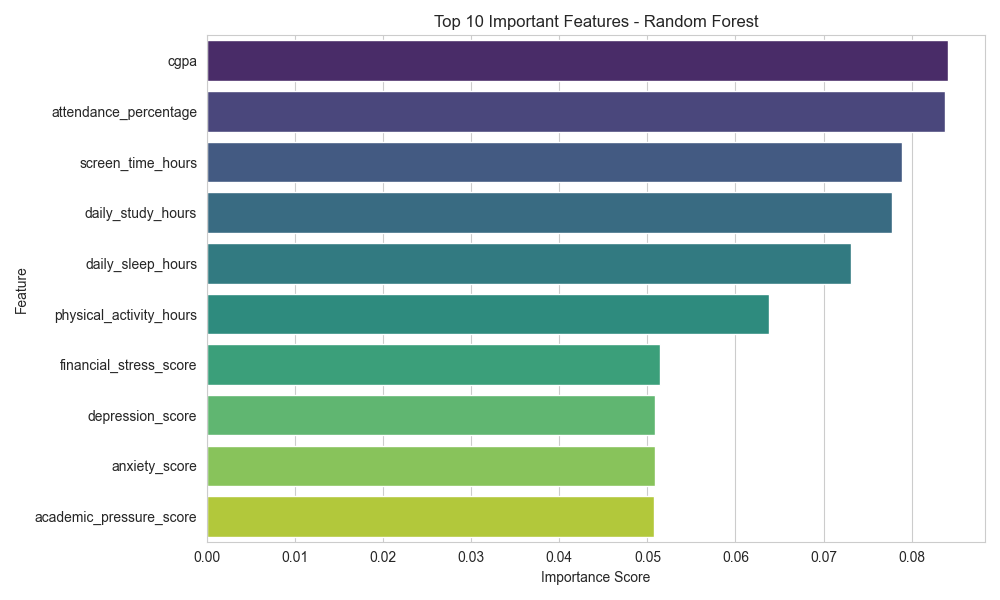
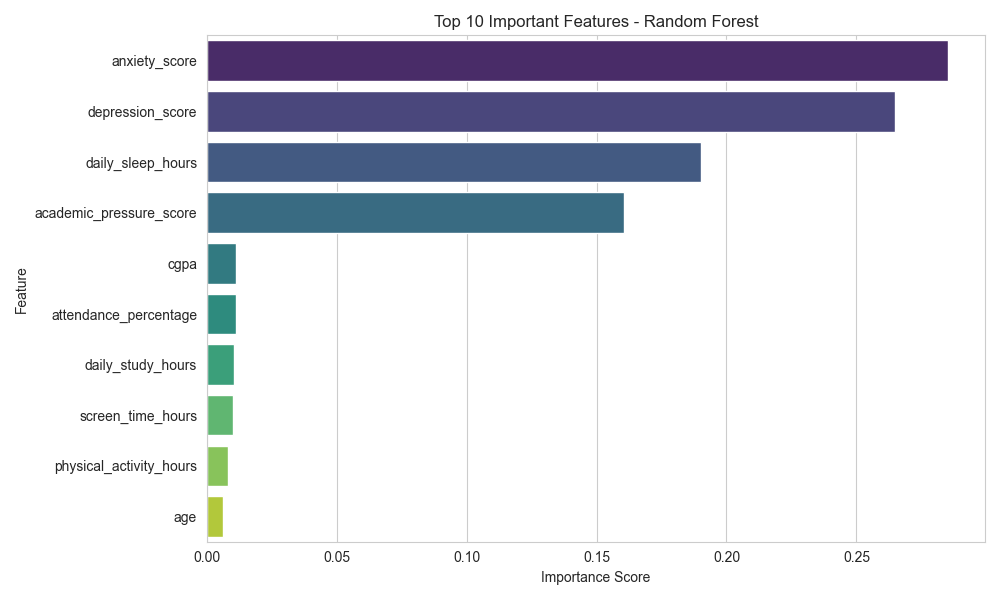
Changed datsets from 150k to 3k for better performance and logistic regression accuracy percentage

diff --git a/main.py b/main.py
@@ -1,4 +1,5 @@
 import os
+import argparse
 import pandas as pd
 import matplotlib.pyplot as plt
 import seaborn as sns
@@ -12,7 +13,27 @@ from sklearn.linear_model import LogisticRegression
 from sklearn.ensemble import RandomForestClassifier
 from sklearn.metrics import accuracy_score, classification_report, confusion_matrix
 
-df = pd.read_csv("student_burnout.csv")
+parser = argparse.ArgumentParser(description="Student burnout model training and visualization")
+parser.add_argument("--data", default="student_burnout.csv", help="Path to dataset CSV file")
+parser.add_argument("--target", default="burnout_level", help="Target column name")
+parser.add_argument("--id-column", default="student_id", help="ID column to drop if present")
+parser.add_argument(
+    "--class-order",
+    default="Low,Medium,High",
+    help="Comma-separated class order for confusion matrix, for example: Low,Medium,High"
+)
+args = parser.parse_args()
+
+df = pd.read_csv(args.data)
+
+if args.target not in df.columns:
+    raise ValueError(
+        f"Target column '{args.target}' not found in dataset. Available columns: {list(df.columns)}"
+    )
+
+class_labels = [label.strip() for label in args.class_order.split(",") if label.strip()]
+if not class_labels:
+    class_labels = sorted(df[args.target].dropna().unique().tolist())
 
 print("Dataset loaded successfully")
 print("Shape:", df.shape)
@@ -25,31 +46,37 @@ sns.set_style("whitegrid")
 # -----------------------------
 
 plt.figure(figsize=(8, 5))
-sns.countplot(x="burnout_level", hue="burnout_level", data=df, palette="Set2", legend=False)
-plt.title("Burnout Level Distribution")
-plt.xlabel("Burnout Level")
+sns.countplot(x=args.target, hue=args.target, data=df, palette="Set2", legend=False)
+plt.title(f"{args.target} Distribution")
+plt.xlabel(args.target)
 plt.ylabel("Count")
 plt.tight_layout()
 plt.savefig("outputs/burnout_distribution.png")
 plt.close()
 
-plt.figure(figsize=(8, 5))
-sns.countplot(x="stress_level", hue="burnout_level", data=df, palette="Set1")
-plt.title("Stress Level vs Burnout Level")
-plt.xlabel("Stress Level")
-plt.ylabel("Count")
-plt.tight_layout()
-plt.savefig("outputs/stress_vs_burnout.png")
-plt.close()
+if "stress_level" in df.columns:
+    plt.figure(figsize=(8, 5))
+    sns.countplot(x="stress_level", hue=args.target, data=df, palette="Set1")
+    plt.title(f"Stress Level vs {args.target}")
+    plt.xlabel("Stress Level")
+    plt.ylabel("Count")
+    plt.tight_layout()
+    plt.savefig("outputs/stress_vs_burnout.png")
+    plt.close()
+else:
+    print("Skipped stress vs target plot: 'stress_level' column not found")
 
-plt.figure(figsize=(8, 5))
-sns.boxplot(x="burnout_level", y="anxiety_score", hue="burnout_level", data=df, palette="Pastel1", legend=False)
-plt.title("Anxiety Score by Burnout Level")
-plt.xlabel("Burnout Level")
-plt.ylabel("Anxiety Score")
-plt.tight_layout()
-plt.savefig("outputs/anxiety_vs_burnout.png")
-plt.close()
+if "anxiety_score" in df.columns:
+    plt.figure(figsize=(8, 5))
+    sns.boxplot(x=args.target, y="anxiety_score", hue=args.target, data=df, palette="Pastel1", legend=False)
+    plt.title(f"Anxiety Score by {args.target}")
+    plt.xlabel(args.target)
+    plt.ylabel("Anxiety Score")
+    plt.tight_layout()
+    plt.savefig("outputs/anxiety_vs_burnout.png")
+    plt.close()
+else:
+    print("Skipped anxiety vs target plot: 'anxiety_score' column not found")
 
 print("Graphs saved successfully in the outputs folder")
 
@@ -57,8 +84,12 @@ print("Graphs saved successfully in the outputs folder")
 # STEP B: Data Preparation
 # -----------------------------
 
-X = df.drop(columns=["burnout_level", "student_id"])
-y = df["burnout_level"]
+drop_columns = [args.target]
+if args.id_column in df.columns:
+    drop_columns.append(args.id_column)
+
+X = df.drop(columns=drop_columns)
+y = df[args.target]
 
 categorical_cols = X.select_dtypes(include=["object"]).columns.tolist()
 numerical_cols = X.select_dtypes(exclude=["object"]).columns.tolist()
@@ -120,7 +151,11 @@ print(classification_report(y_test, rf_pred))
 # STEP E: Confusion Matrix
 # -----------------------------
 
-cm = confusion_matrix(y_test, rf_pred, labels=["Low", "Medium", "High"])
+missing_in_test = [label for label in class_labels if label not in set(y_test)]
+if missing_in_test:
+    print(f"Warning: some class labels are not present in y_test: {missing_in_test}")
+
+cm = confusion_matrix(y_test, rf_pred, labels=class_labels)
 
 plt.figure(figsize=(7, 5))
 sns.heatmap(
@@ -128,8 +163,8 @@ sns.heatmap(
     annot=True,
     fmt="d",
     cmap="Blues",
-    xticklabels=["Low", "Medium", "High"],
-    yticklabels=["Low", "Medium", "High"]
+    xticklabels=class_labels,
+    yticklabels=class_labels
 )
 plt.title("Random Forest Confusion Matrix")
 plt.xlabel("Predicted Label")
